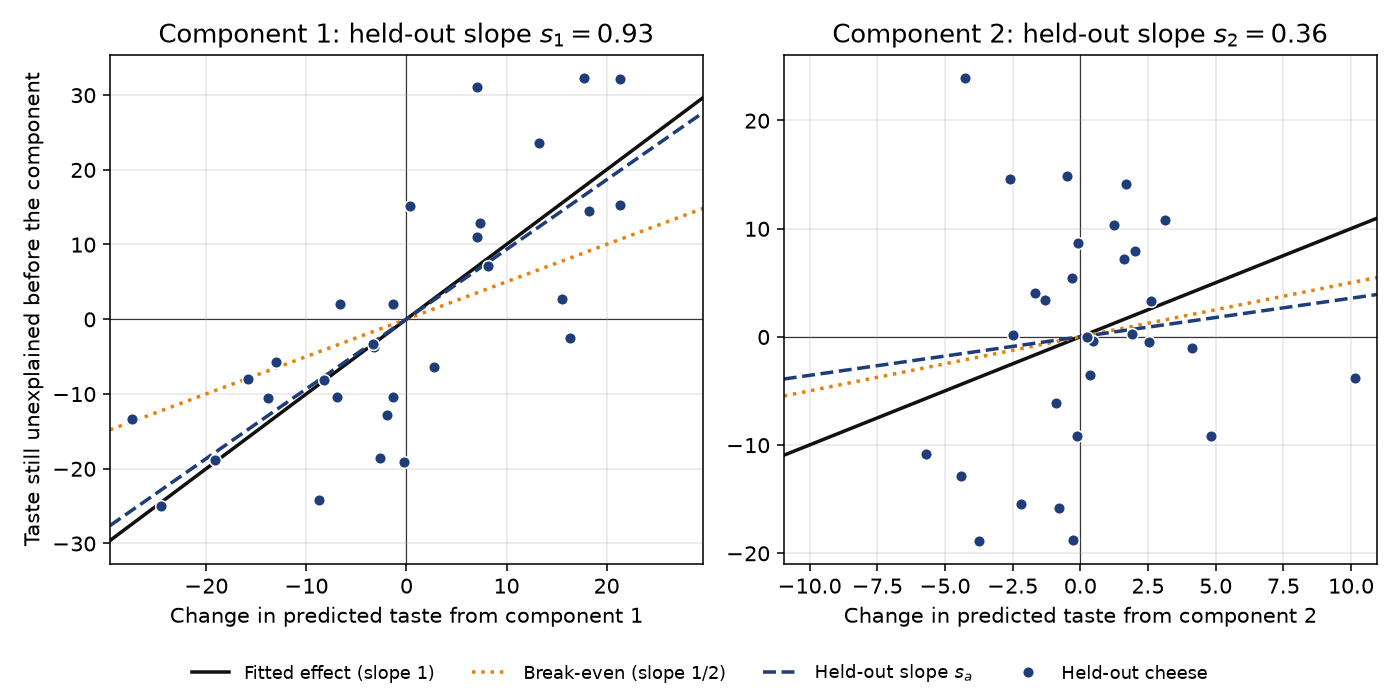
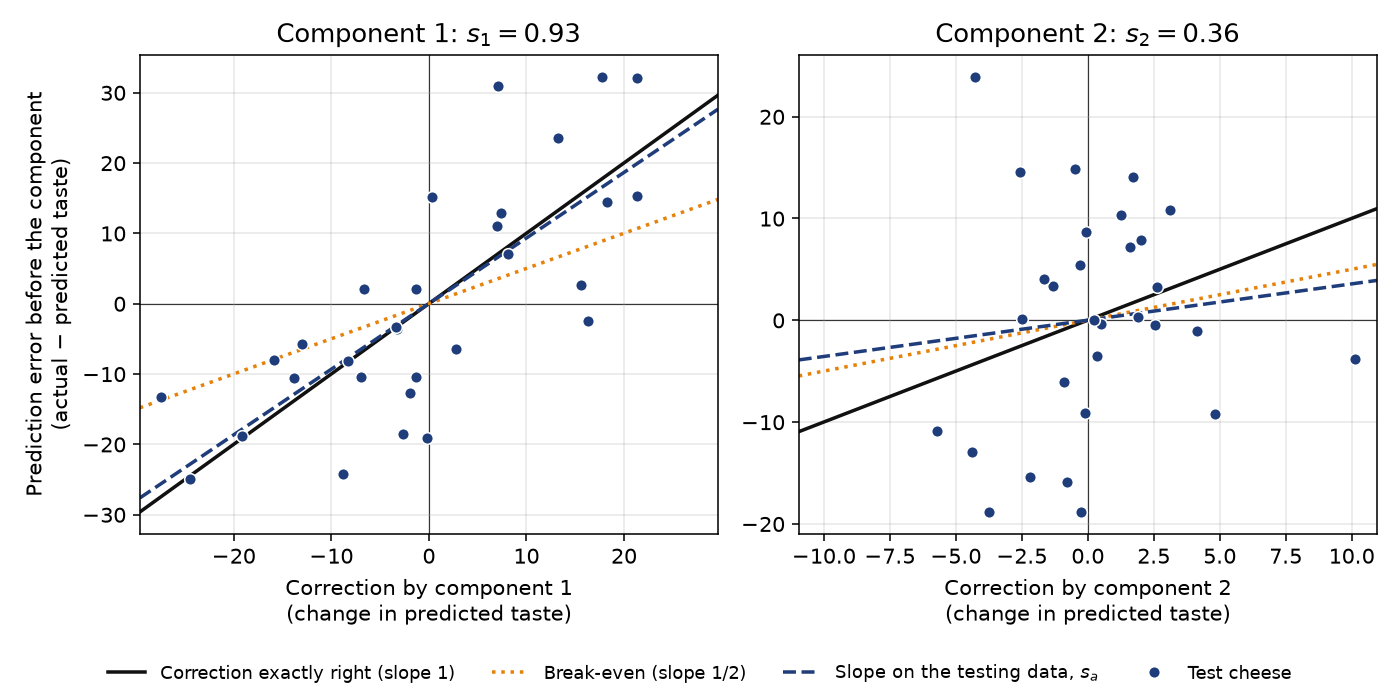
Relabel the slope figure in terms of corrections and testing data
The vertical axis is the prediction error before the component (actual minus
predicted taste) and the horizontal axis the correction the component makes,
so the slope-1 line reads as "correction exactly right". "Held-out" becomes
"testing data" / "test cheese", the book's own term, and the panel titles are
shortened so the second one is no longer clipped.

Claude-Session: https://claude.ai/code/session_01XjPKaSQTbj66mGj71QRR7N

diff --git a/pls/pls-heldout-component-check.py b/pls/pls-heldout-component-check.py
@@ -1,4 +1,4 @@
-"""Generate the two committed PNGs that check the second cheese component on held-out rows.
+"""Generate the two committed PNGs that check the second cheese component on testing data.
 
 Companion to the pid-book section "Why a component that points the right way can
 still be dropped" in
@@ -8,11 +8,12 @@ Both figures come from one seven-fold cross-validation of a PLS model of Taste o
 Acetic, H2S and Lactic (all 30 cheeses), with the folds that
 ``compare_cv_criteria(X, Y, random_state=0)`` uses: shuffled ``KFold(7)`` with seed 0.
 
-* ``pls-heldout-slope-ratio.png``: for every held-out cheese, what adding a
-  component changes in its predicted taste, against the taste still unexplained
-  before it. The least-squares slope through the origin is the slope ratio ``s_a``;
-  the prediction error falls only when ``s_a > 1/2``, because
-  ``PRESS[a-1] - PRESS[a] = (2 s_a - 1) * sum(contribution**2)``.
+* ``pls-heldout-slope-ratio.png``: for every test cheese (the testing data of its
+  fold), the correction a component makes to its predicted taste, against the
+  prediction error before that correction (actual minus predicted taste). The
+  least-squares slope through the origin is the slope ratio ``s_a``; the prediction
+  error falls only when ``s_a > 1/2``, because
+  ``PRESS[a-1] - PRESS[a] = (2 s_a - 1) * sum(correction**2)``.
 * ``pls-fold-weights.png``: the weights of components 1 and 2 in the model fitted
   to all 30 cheeses (bars), and in each of the seven fold models (dots), with the
   arbitrary sign of each fold's component aligned to the full model.
@@ -44,49 +45,49 @@ from process_improve.multivariate import PLS
 DATA_URL = "https://openmv.net/file/cheddar-cheese.csv"
 X_COLUMNS = ["Acetic", "H2S", "Lactic"]
 
-DARK_BLUE = "#1f3d7a"  # held-out cheeses, and the held-out slope
+DARK_BLUE = "#1f3d7a"  # test cheeses, and the slope on the testing data
 ORANGE = "#e6820a"     # the break-even slope of one half
-BLACK = "#111111"      # the fitted effect, slope one
+BLACK = "#111111"      # a correction that is exactly right, slope one
 GREY = "#c9c9c9"       # bars for the model fitted to all cheeses
 
 plt.rcParams.update({"font.size": 11, "axes.grid": True, "grid.alpha": 0.3, "figure.dpi": 140})
 
 
 def cross_validate(X: pd.DataFrame, Y: pd.DataFrame) -> tuple[np.ndarray, np.ndarray, list[np.ndarray]]:
-    """Held-out contribution and unexplained taste per component, and each fold model's weights."""
-    contribution = np.zeros((len(X), 2))
-    unexplained = np.zeros((len(X), 2))
+    """Correction and prediction error before it, per test cheese and component, and each fold's weights."""
+    correction = np.zeros((len(X), 2))
+    error_before = np.zeros((len(X), 2))
     fold_weights = []
     for train, test in KFold(n_splits=7, shuffle=True, random_state=0).split(X):
         before = np.full(len(test), Y.iloc[train, 0].mean())
         for a in (1, 2):
             fold_model = PLS(n_components=a).fit(X.iloc[train], Y.iloc[train])
             after = fold_model.predict(X.iloc[test]).to_numpy().ravel()
-            contribution[test, a - 1] = after - before
-            unexplained[test, a - 1] = Y.iloc[test, 0].to_numpy() - before
+            correction[test, a - 1] = after - before
+            error_before[test, a - 1] = Y.iloc[test, 0].to_numpy() - before
             before = after
         fold_weights.append(fold_model.x_weights_.to_numpy())
-    return contribution, unexplained, fold_weights
+    return correction, error_before, fold_weights
 
 
-def slope_figure(contribution: np.ndarray, unexplained: np.ndarray, out_dir: Path) -> None:
-    """One panel per component: held-out points, the fitted slope, one half, and the held-out slope."""
-    slopes = (contribution * unexplained).sum(axis=0) / (contribution**2).sum(axis=0)
+def slope_figure(correction: np.ndarray, error_before: np.ndarray, out_dir: Path) -> None:
+    """One panel per component: test cheeses, slope one, slope one half, and the slope on the testing data."""
+    slopes = (correction * error_before).sum(axis=0) / (correction**2).sum(axis=0)
     fig, axes = plt.subplots(1, 2, figsize=(10.0, 5.0))
     for a, ax in enumerate(axes):
-        g, r = contribution[:, a], unexplained[:, a]
+        g, r = correction[:, a], error_before[:, a]
         reach = 1.08 * np.abs(g).max()
         ends = np.array([-reach, reach])
         ax.axhline(0, color=BLACK, lw=0.6, zorder=1)
         ax.axvline(0, color=BLACK, lw=0.6, zorder=1)
-        ax.plot(ends, ends, color=BLACK, lw=1.8, label="Fitted effect (slope 1)")
+        ax.plot(ends, ends, color=BLACK, lw=1.8, label="Correction exactly right (slope 1)")
         ax.plot(ends, 0.5 * ends, color=ORANGE, lw=1.8, ls=":", label="Break-even (slope 1/2)")
-        ax.plot(ends, slopes[a] * ends, color=DARK_BLUE, lw=1.8, ls="--", label="Held-out slope $s_a$")
-        ax.plot(g, r, "o", ms=6, color=DARK_BLUE, mec="white", mew=0.8, zorder=4, label="Held-out cheese")
+        ax.plot(ends, slopes[a] * ends, color=DARK_BLUE, lw=1.8, ls="--", label="Slope on the testing data, $s_a$")
+        ax.plot(g, r, "o", ms=6, color=DARK_BLUE, mec="white", mew=0.8, zorder=4, label="Test cheese")
         ax.set_xlim(ends)
-        ax.set_title(f"Component {a + 1}: held-out slope $s_{a + 1} = {slopes[a]:.2f}$")
-        ax.set_xlabel(f"Change in predicted taste from component {a + 1}")
-    axes[0].set_ylabel("Taste still unexplained before the component")
+        ax.set_title(f"Component {a + 1}: $s_{a + 1} = {slopes[a]:.2f}$")
+        ax.set_xlabel(f"Correction by component {a + 1}\n(change in predicted taste)")
+    axes[0].set_ylabel("Prediction error before the component\n(actual \u2212 predicted taste)")
     handles, labels = axes[0].get_legend_handles_labels()
     fig.legend(handles, labels, loc="lower center", ncol=4, fontsize=9.5, frameon=False)
     fig.tight_layout(rect=(0, 0.07, 1, 1))
@@ -122,9 +123,9 @@ def main() -> None:
     out_dir = Path(sys.argv[1]) if len(sys.argv) > 1 else Path(__file__).resolve().parent
     cheese = pd.read_csv(DATA_URL)
     X, Y = cheese[X_COLUMNS], cheese[["Taste"]]
-    contribution, unexplained, fold_weights = cross_validate(X, Y)
+    correction, error_before, fold_weights = cross_validate(X, Y)
     full_weights = PLS(n_components=2).fit(X, Y).x_weights_.to_numpy()
-    slope_figure(contribution, unexplained, out_dir)
+    slope_figure(correction, error_before, out_dir)
     weights_figure(full_weights, fold_weights, out_dir)
 
 
